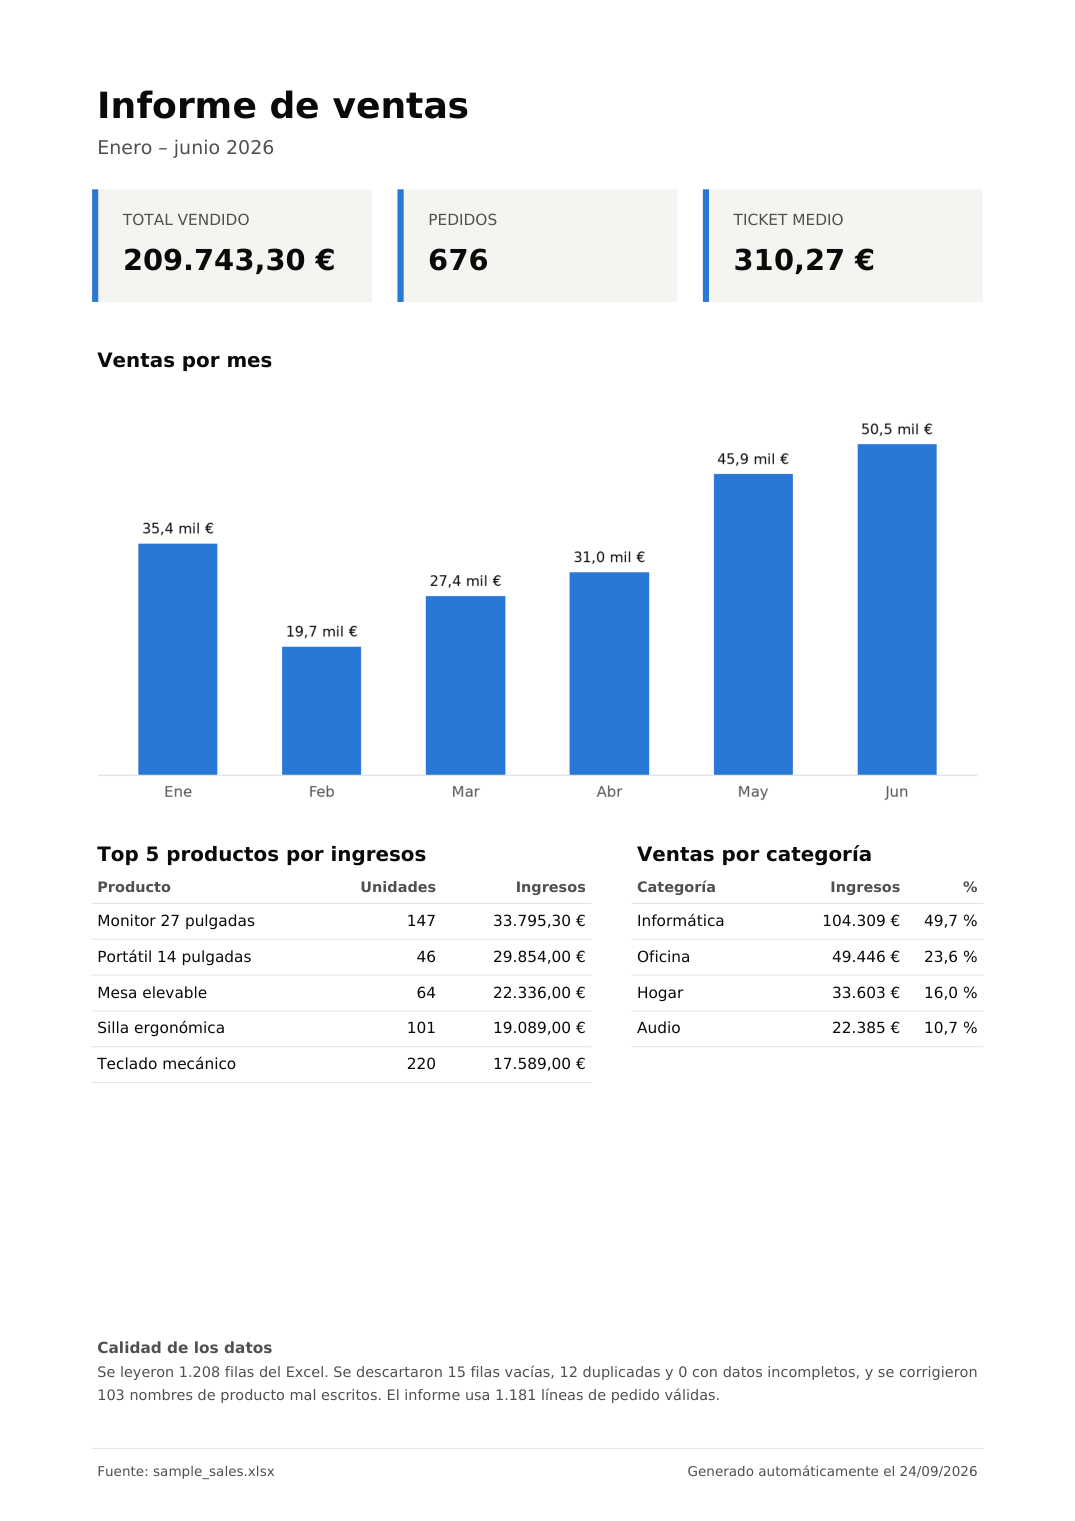
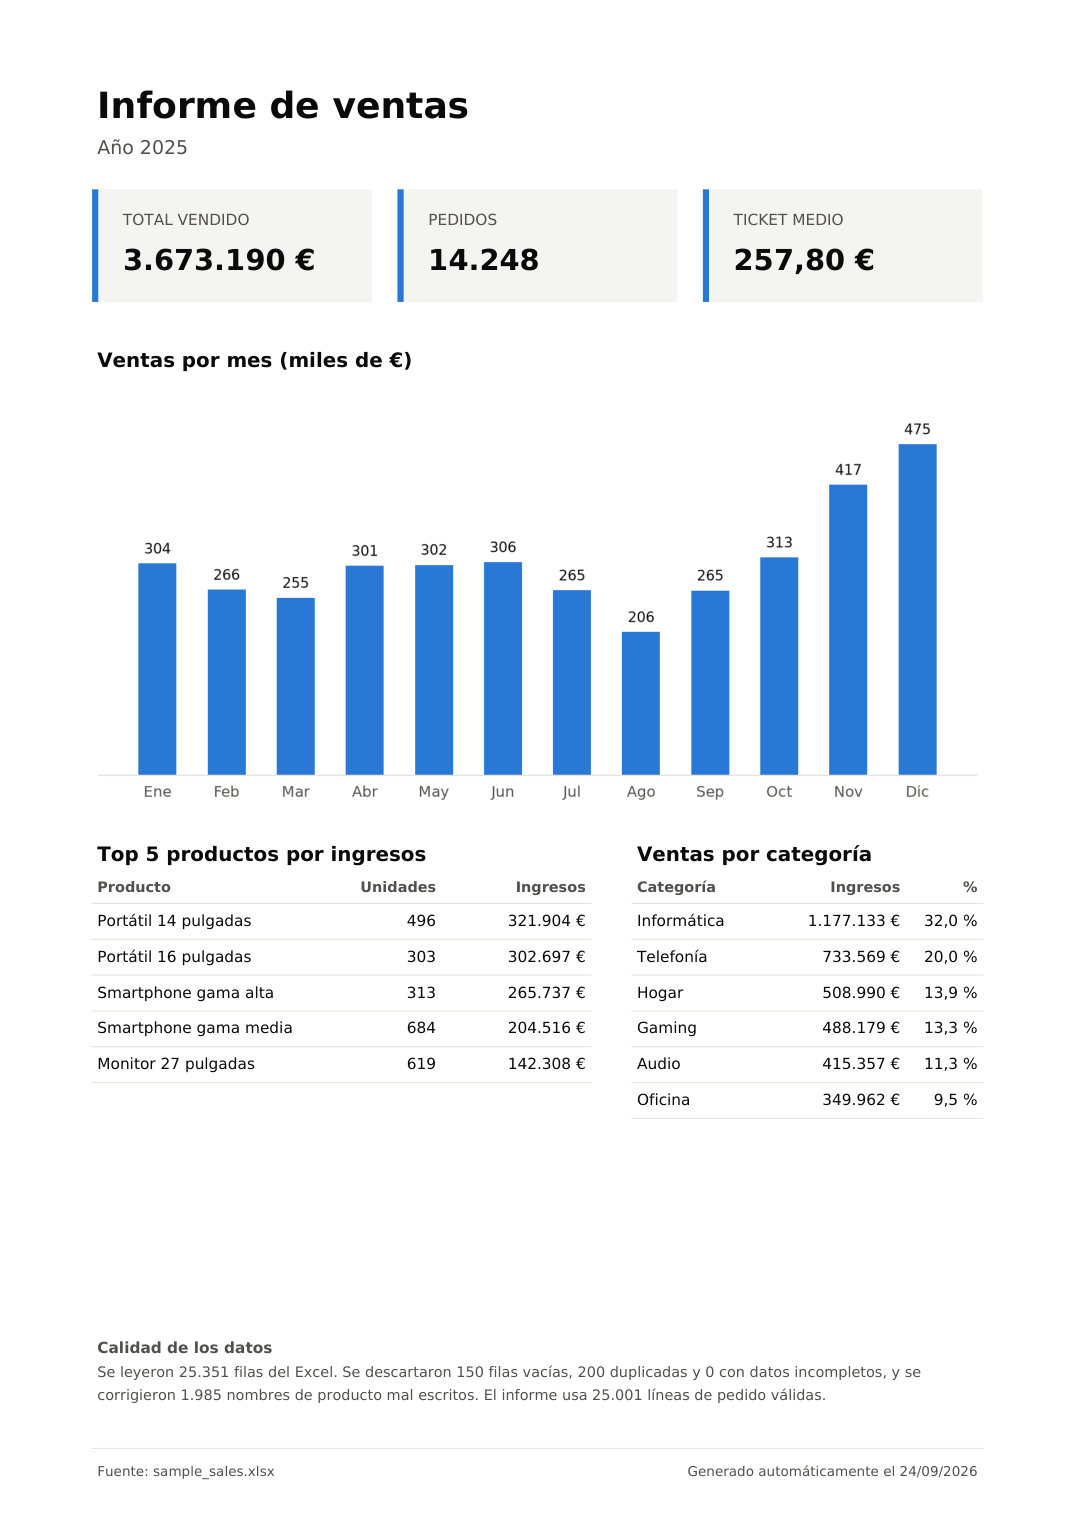
Actualiza README e imagen del informe al análisis anual

diff --git a/README.md b/README.md
@@ -12,7 +12,7 @@ Sin errores de copiar y pegar. Y el informe sale igual cada vez que lo generas.
 
 ## Qué hace
 
-Lee un Excel de ventas y genera un PDF con:
+Lee un Excel de ventas (probado con 25.000 filas, unos 10 segundos) y genera un PDF con:
 
 - **KPIs**: total vendido, número de pedidos y ticket medio
 - **Gráfico**: ventas por mes
@@ -28,7 +28,7 @@ Antes de calcular nada, **limpia los datos**:
 | Filas duplicadas (copiar y pegar) | Las descarta |
 | `"  PACK 500 FOLIOS "`, `"pack 500 folios"` | Las unifica en `"Pack 500 folios"` |
 | Cantidades a 0 o negativas, precios vacíos, fechas rotas | Descarta la fila |
-| Fechas en texto (`2026-01-05` o `05/01/2026`) | Las entiende sin confundir día y mes |
+| Fechas en texto (`2025-01-05` o `05/01/2025`) | Las entiende sin confundir día y mes |
 
 Si el Excel no existe o le faltan columnas, lo avisa con un mensaje claro en español.
 
@@ -70,14 +70,15 @@ Para usar tu propio Excel, basta con que tenga estas columnas:
 ### Datos de ejemplo
 
 `data/sample_sales.xlsx` contiene **datos inventados** (ninguna persona ni empresa real):
-unas 1.200 líneas de pedido de enero a junio de 2026, con suciedad puesta a propósito.
+**un año completo (2025)** con unas 25.000 líneas de pedido, 14.000 pedidos y 60 productos en 6 categorías,
+con temporada realista (rebajas, verano flojo, Black Friday, Navidad) y suciedad puesta a propósito.
 Para volver a crearlo:
 
 ```powershell
 python generate_data.py
 ```
 
-Siempre sale idéntico (usa una semilla fija).
+Siempre sale idéntico (usa una semilla fija). Tarda unos 10 segundos.
 
 ## Tests
 
@@ -85,7 +86,7 @@ Siempre sale idéntico (usa una semilla fija).
 pytest -v
 ```
 
-9 tests comprueban la limpieza de datos y los cálculos (pedidos únicos, ticket medio, top 5, porcentajes...).
+10 tests comprueban la limpieza de datos y los cálculos (pedidos únicos, ticket medio, top 5, porcentajes, los 12 meses en orden...).
 
 ## Tecnologías
 
@@ -119,7 +120,7 @@ reporte-ventas/
 - Aceptar CSV y otros formatos además de `.xlsx`
 - Pequeña interfaz gráfica para elegir el archivo sin usar la terminal
 - Filtros por ciudad o por rango de fechas
-- Comparar con el periodo anterior (por ejemplo, +12 % frente al semestre pasado)
+- Comparar con el periodo anterior (por ejemplo, +12 % frente al año anterior)
 
 ## Licencia de la fuente
 
